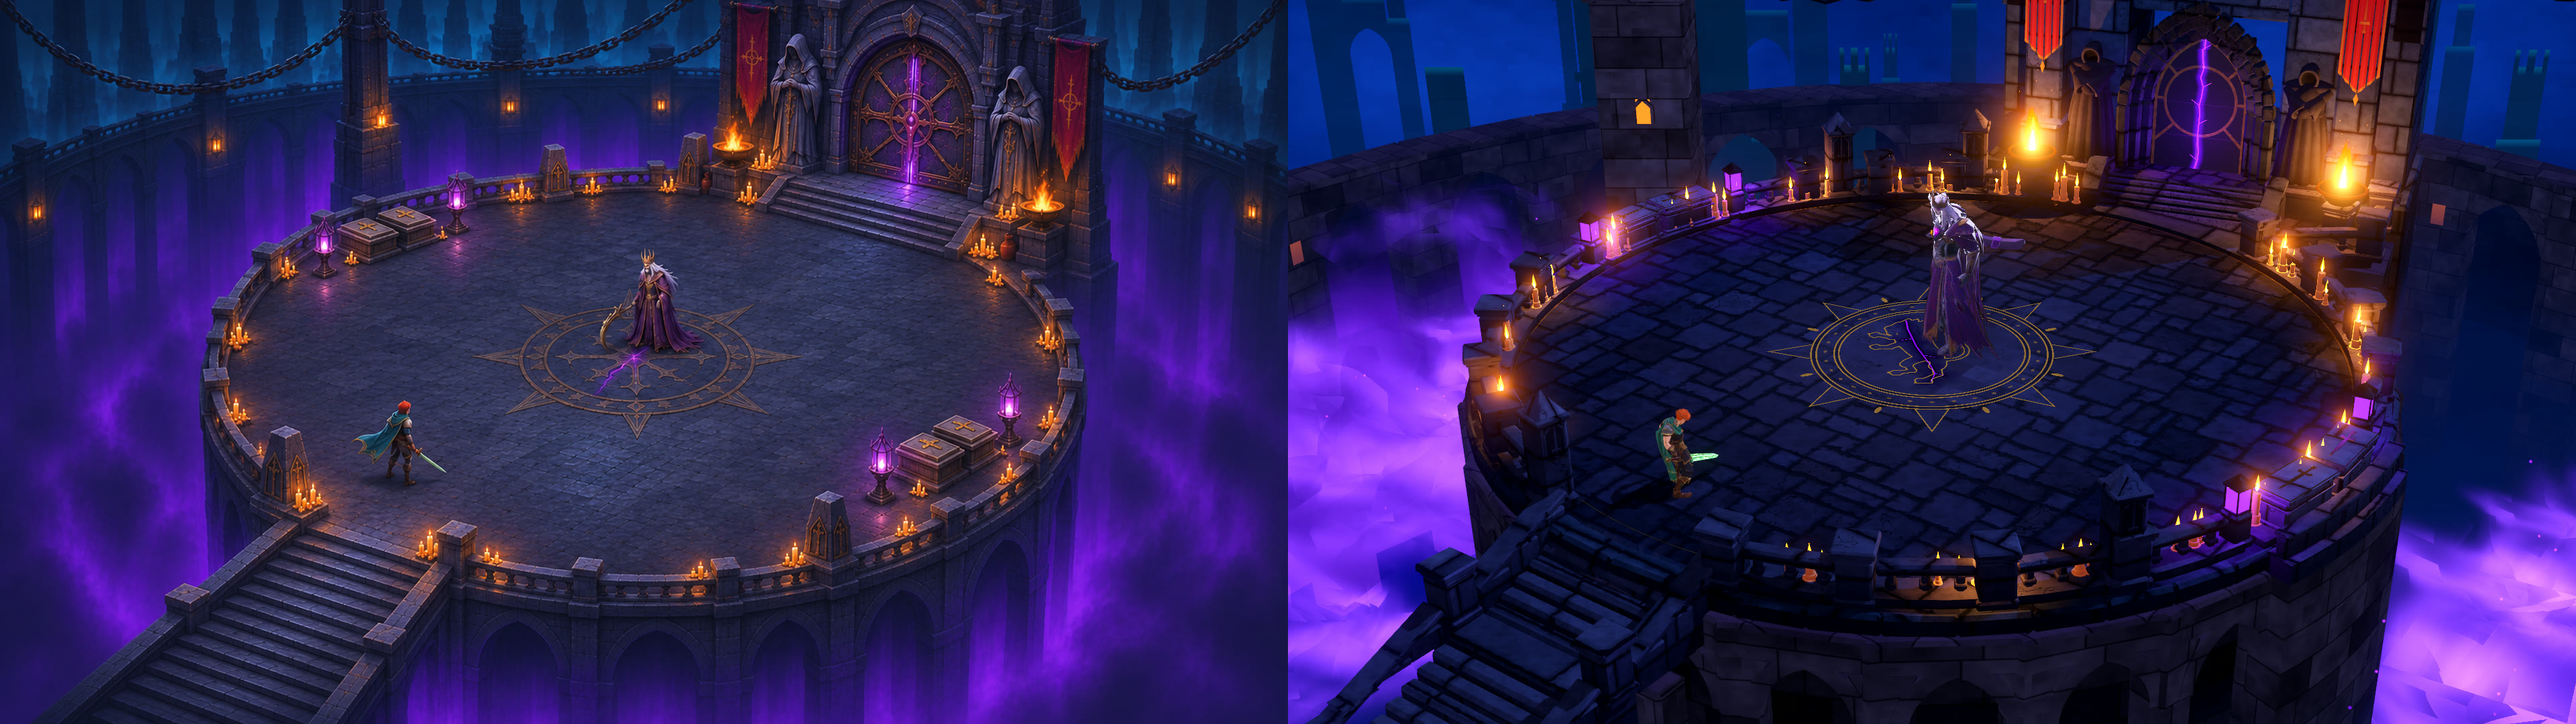
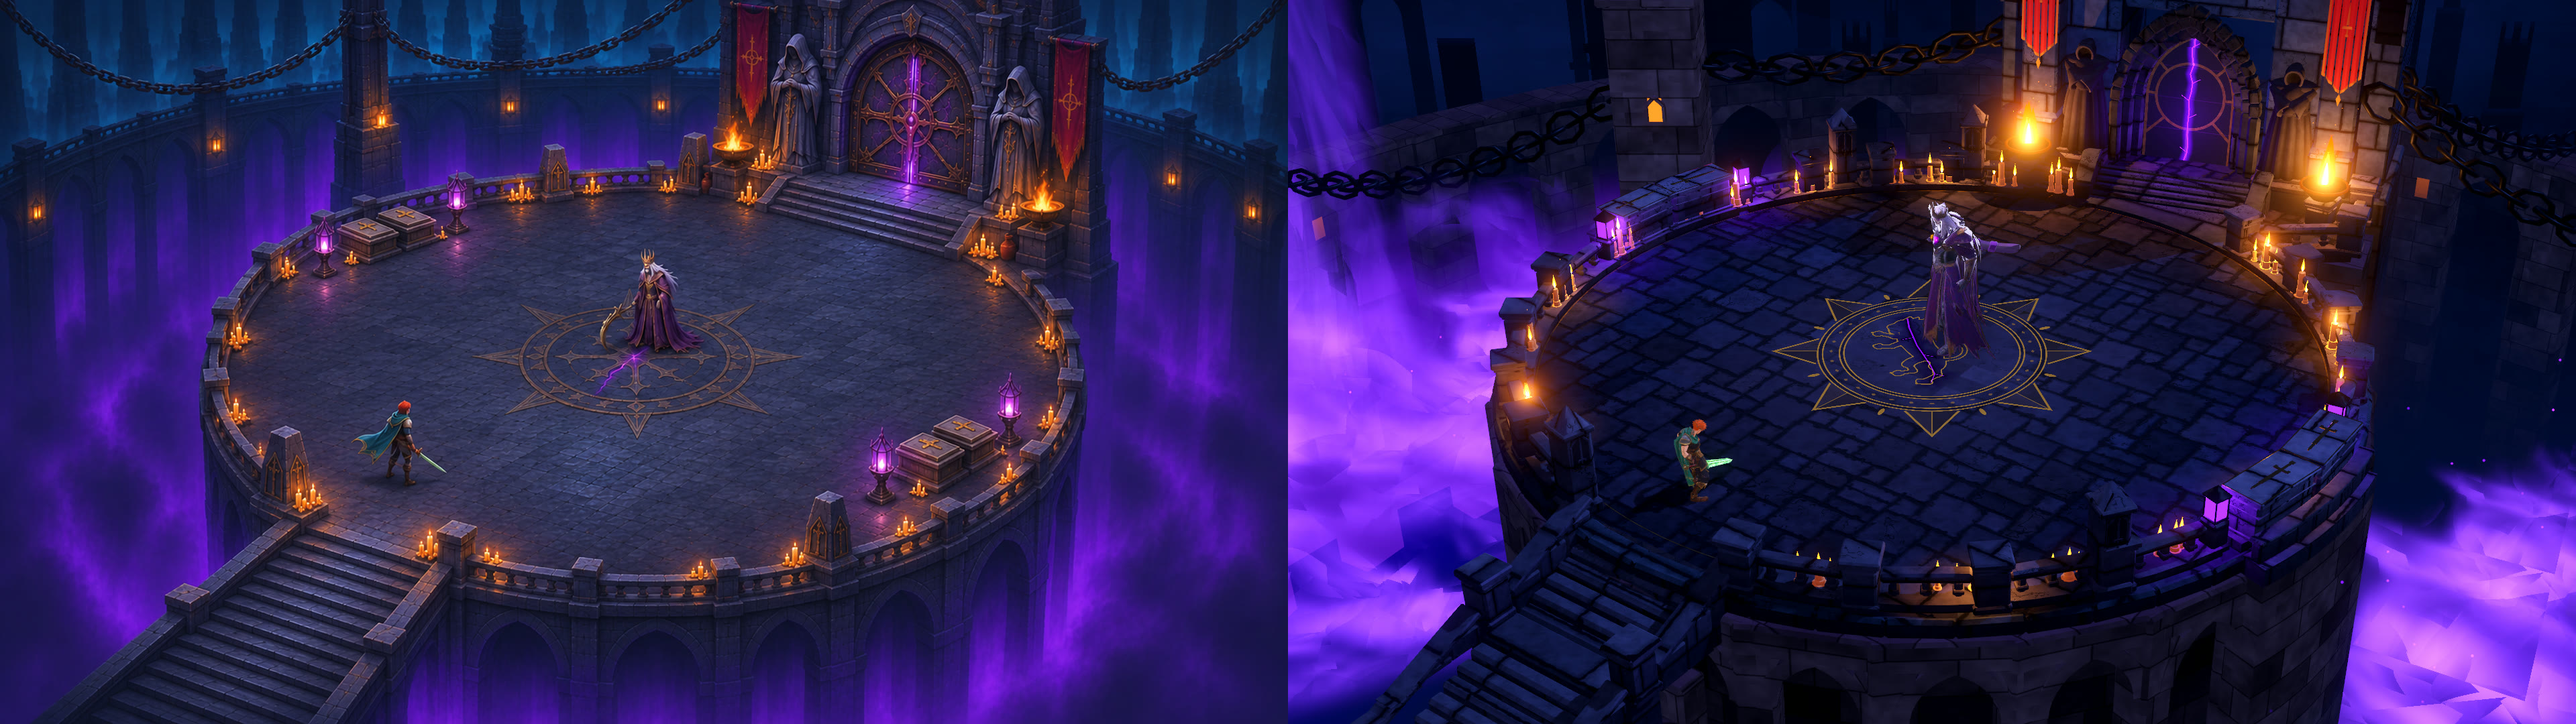
Seal Chamber polish: navy air with violet mist columns and navy spire silhouettes, monumental chains crossing the top of the frame, wider bronze-and-gold seal points, larger sarcophagi outside the walkable circle, organic violet corruption veins in phase 4, the chamber's air restored when leaving (t

Changed region(s): [[0.5, 0.0, 1.0, 1.0]]

diff --git a/CLAUDE.md b/CLAUDE.md
@@ -348,7 +348,16 @@ worktree). Tarefa pequena o Game Director faz direto. Protocolo completo: `docs/
   violeta, pilaretes e sarcófagos com a espada erguida, fachada com a porta selada (`chamber_door.gdshader`, costura
   que pulsa na fase 4 e se fecha na selagem), estandartes com a espada (`ArenaKit.banner(..., emblem)`), escada sul com o
   véu de runas (`chamber_veil.gdshader`), muralha de arcos, torre, correntes, anel de arcadas, ar próprio
-  (`BossChamber.dress`). Nada fica dentro do círculo de 12,5 m (testado por vértice em `tests/test_chamber_look.gd`);
+  (`BossChamber.dress`; guardado em `air_of` e devolvido ao salão quando a câmara sai, `restore_air` no `_exit_tree`,
+  testado em `test_boss_chamber.gd`). Polimento C11: céu azul-marinho (cartões das agulhas em silhueta `SPIRE_*`, luz
+  azul `BLUE_ENERGY` 1,2), colunas altas de névoa violeta nos lados do abismo (`COLUMNS`), correntes grossas da torre e
+  da fachada até as arcadas que cruzam a faixa de cima da câmera do jogo (`CHAINS`, `CHAIN_SIZE`), pontas da estrela
+  mais largas com chapa de bronze e espinha de ouro (`seal_point*` no `chamber_seal.gdshaderinc`, só albedo), sarcófagos
+  maiores (`SARC_*`, velas do nicho em `NICHE_CANDLES`), veios da fase 4 orgânicos (raízes de ruído torcido, violeta com
+  miolo esmeralda corrompido escuro e mancha roxa na pedra, `vein_*`), não mais pelas juntas. O desfazer da morte de
+  qualquer inimigo (`state.a` no `crowd.gdshader`) só arde nas partículas que vão sumir, em ouro velho abaixo do glow
+  (`dissolve_color`, `dissolve_band`): antes o corpo inteiro brilhava laranja 3,2 e Morvath caído virava uma mancha
+  amarela sobre o selo. Nada fica dentro do círculo de 12,5 m (testado por vértice em `tests/test_chamber_look.gd`);
   o arco da frente abre em pontilhado em volta do herói e de Morvath (`see_through` com `boss_pos`). Laboratório:
   `tools/chamber_lab.gd` (comando no topo; `--state=`, `--phase=`, `--hero`, `--boss`, `--showcase`, `--hall`,
   `--measure=`). Capturas: `docs/gallery/boss_arena/work/chamber_*.jpg`. Morvath: lanes
